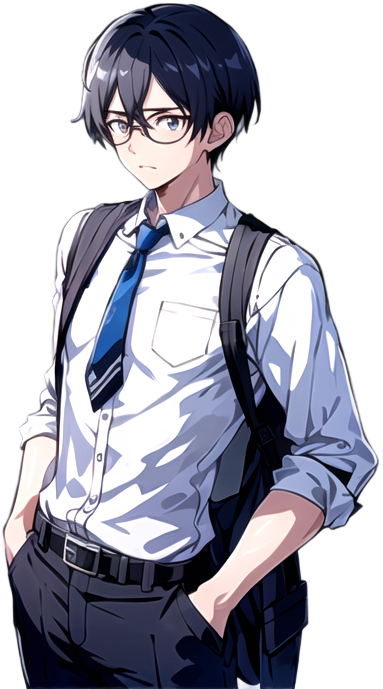
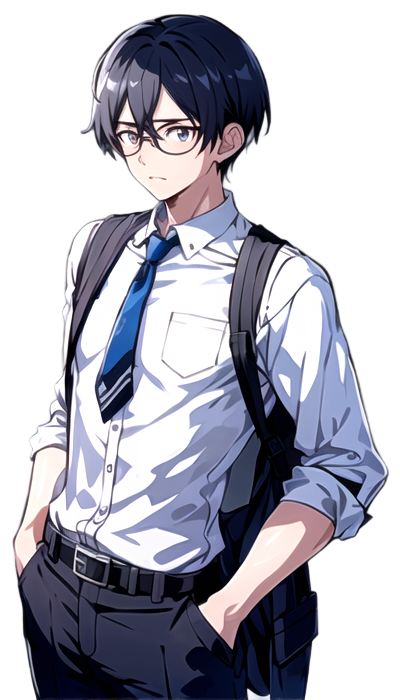
By SushiCodelnw

diff --git a/script.js b/script.js
@@ -4,17 +4,15 @@ const choose2 = document.getElementById("choose2");
 const choose3 = document.getElementById("choose3");
 
 const backgroundImg = document.getElementById("background-container");
-const shinImg = document.getElementById("shin");
-const sushiImg = document.getElementById("sushi");
+const characterImg = document.getElementById("character-container");
 
 const backgrounds = {
   bedroom: 'url("image/Background/Bedroom.png")',
 };
 
 const characters = {
-  shin: shinImg,
-  sushi: sushiImg,
-  none: null,
+  shin: 'url("image/Character/shin.png")',
+  sushi: 'url("image/Character/sushi.png")',
 };
 
 let time = 0;
@@ -23,62 +21,211 @@ let in_line = true;
 
 const word_list = [
   {
-    character: ["shin", "sushi"],
+    character: "shin",
     background: "bedroom",
     speaker: "ชิน",
-    word: "โอ้ยยยย ข้อสอบวันนี้นี่มันยากจริงๆเลย",
-    action: {
-      shin: [
-        { type: "moveX", value: 5, repeat: 10, delay: 100 },
-        { type: "scaleX", value: -1, repeat: 1, delay: 0 },
-      ],
-      sushi: [{ type: "moveY", value: 10, repeat: 5, delay: 200 }],
-    },
+    word: "โอ้ยยยย ข้อสอบวันนี้นี่มันยากจริงๆเลย... รีบกลับบ้านดีกว่า",
   },
   {
-    character: ["shin"],
+    character: "shin",
     background: "bedroom",
     speaker: "ชิน",
-    word: "เหนื่อยว่ะ รีบกลับหอดีกว่า",
-    action: { shin: [{ type: "moveY", value: 10, repeat: 1, delay: 0 }] },
+    word: "โว๊ะ นั่นอะไรน่ะ? กล่องกระดาษเหรอ? สงสัยจังว่าอะไรอยู่ข้างใน...",
   },
   {
-    character: ["sushi"],
+    character: "shin",
     background: "bedroom",
     speaker: "ชิน",
-    word: "โว๊ะ นั่นอะไรน่ะ กล่องกระดาษหรอ มันไมพอร์ตคุ้นๆวะ",
-    action: {},
+    word: "เชี่ย! มีลูกหมาอยู่ข้างในด้วย!",
+  },
+  {
+    character: "shin",
+    background: "bedroom",
+    speaker: "ชิน",
+    word: "ฉันยิ่งชอบหมาอยู่ด้วยสิ... เอาไงกับมันดีนะ?",
+  },
+  {
+    character: "shin",
+    background: "bedroom",
+    speaker: "ชิน",
+    word: "โอเคๆ ฉันจะไม่ปล่อยให้นายอยู่ตรงนี้หรอก...",
+  },
+  {
+    character: "shin",
+    background: "bedroom",
+    speaker: "ชิน",
+    word: "เห.. มีใบกระดาษอยู่ในกล่องด้วย.. เขียนว่า ซูชิ",
+  },
+  {
+    character: "shin",
+    background: "bedroom",
+    speaker: "ชิน",
+    word: "งั้นหรอ นายชื่อซูชิสินะ ไปกันเถอะ ซูชิ!!",
+  },
+  {
+    character: "shin",
+    background: "bedroom",
+    speaker: "ชิน",
+    word: "ก่อนอื่น... คงต้องหาข้าวให้มันกินก่อน",
+  },
+  {
+    character: "shin",
+    background: "bedroom",
+    speaker: "ชิน",
+    word: "ไปซื้ออาหารหมาดีกว่า",
+  },
+  {
+    character: "shin",
+    background: "store",
+    speaker: "ชิน",
+    word: "สวัสดีคร้าบบบบบบ ลุง",
+  },
+  {
+    character: "storekeeper",
+    background: "store",
+    speaker: "ลุง",
+    word: "หวัสดีจ่ะหลาน! เอาอะไรดีล่ะ?",
+  },
+  {
+    character: "shin",
+    background: "store",
+    speaker: "ชิน",
+    word: "เอาเป็น... อาหารหมา... ลุงแนะนำได้ไหมครับว่าเอาแบบไหนดี",
+  },
+  {
+    character: "storekeeper",
+    background: "store",
+    speaker: "ลุง",
+    word: "ลุงมีนี่แนะนำ อาหารหมาจากญี่ปุ่น ปกติเหมือนจะขายกันหลายร้อยเลยนะ แต่ลุงได้มาฟรีน่ะ เมื่อวานเพื่อนลุงซื้อมาฝาก งั้นลุงขายแค่ 100 เดียวจ่ะ",
+  },
+  {
+    character: "shin",
+    background: "store",
+    speaker: "ชิน",
+    word: "โอ้ววว ลุงใจดีจัง ขอบคุณมากนะครับลุง",
+  },
+  {
+    character: "storekeeper",
+    background: "store",
+    speaker: "ลุง",
+    word: "ไม่เป็นไรจ่ะ โชคดีนะ เลี้ยงมันดีๆล่ะ",
+  },
+  {
+    character: "shin",
+    background: "store",
+    speaker: "ชิน",
+    word: "ครับ ขอบคุณมากเลยครับลุง",
+  },
+  {
+    character: "shin",
+    background: "home",
+    speaker: "ชิน",
+    word: "เฮ้อ... ถึงบ้านสักที รอแป๊บนะ เดี๋ยวเอาอาหารให้กิน",
+  },
+  {
+    character: "shin",
+    background: "home",
+    speaker: "ชิน",
+    word: "เห้ย! เกิดอะไรขึ้นเนี่ย? อ้าาาาาา!!!",
+  },
+  {
+    character: "shin",
+    background: "home",
+    speaker: "ชิน",
+    word: "ว๊าา! อะไรเนี่ย!!",
+  },
+  {
+    character: "sushi",
+    background: "home",
+    speaker: "ซูชิ",
+    word: "เกิดอะไรขึ้นกันล่ะเนี่ย",
+  },
+  {
+    character: "shin",
+    background: "home",
+    speaker: "ชิน",
+    word: ".",
+  },
+  {
+    character: "sushi",
+    background: "home",
+    speaker: "ซูชิ",
+    word: "..",
+  },
+  {
+    character: "shin",
+    background: "home",
+    speaker: "ชิน",
+    word: "...",
+  },
+  {
+    character: "sushi",
+    background: "home",
+    speaker: "ซูชิ",
+    word: "....",
+  },
+  {
+    character: "shin",
+    background: "home",
+    speaker: "ชิน",
+    word: "นี่มัน... อะไรกันล่ะเนี่ย? น่ะ...นาย.. เป็นคน? งั้นหรอ?",
+  },
+  {
+    character: "sushi",
+    background: "home",
+    speaker: "ซูชิ",
+    word: "ฉันก็ไม่รู้วววววว ทำไมอยู่ดีๆฉันกลายเป็นเหมือนนายล่ะเนี่ย",
+  },
+  {
+    character: "shin",
+    background: "home",
+    speaker: "ชิน",
+    word: "อะไรกันล่ะเนี่ย (แต่... ตอนเป็นหมาก็น่ารักอยู่แล้วนะ ทะ..ทำไมตอนนายกลายเป็นคนมันก็....)",
+  },
+  {
+    character: "shin",
+    background: "home",
+    speaker: "ชิน",
+    word: "หรือว่าจะเป็นเพราะอาหารหมาที่ลุงให้มากันนะ เพราะหลังจากที่นายกิน นายก็กลายเป็นคนเลยในอีกไม่กี่วินาทีตอนมา",
+  },
+  {
+    character: "shin",
+    background: "home",
+    speaker: "ชิน",
+    word: "ถึงจะยังไม่เข้าใจก็เหอะ แต่นายต้องอยู่กับฉันไปก่อนล่ะนะ",
   },
 ];
 
-textBox.addEventListener("click", BoxClick);
-
 function BoxClick() {
   if (in_line && time < word_list.length) {
-    const { character, background, speaker, word, action } = word_list[time];
-    updateCharacter(character, action);
+    const { character, background, speaker, word } = word_list[time];
+    updateCharacter(character);
     updateBackground(background);
     updateText(speaker, word);
     time++;
 
-    if (time === 5) {
+    if (time === 3) {
+      hideTextBox();
+    }
+
+    if (time === 4) {
       in_line = false;
       if (stage === 0) {
         openChoices(
           {
             speaker: "ชิน",
             text: "เก็บมันมาเลี้ยง",
-            outline: "มานี้มะ ไอหน้าหมา",
+            outline: "คงมีแค่วิธีนี้แหละ!",
           },
           {
-            speaker: "มิ้น",
+            speaker: "ชิน",
             text: "ปล่อยมันไว้อย่างงั้นแหละ",
-            outline: "มึงจะบ้าหรอ มันน่าสงสารจะตาย",
+            outline: "ไม่เอาๆๆๆๆๆ มันน่าสงสารจะตาย",
           },
           {
-            speaker: "มิ้น",
+            speaker: "ชิน",
             text: "โทรหาศูนย์ช่วยเหลือสัตว์",
-            outline: "แต่กูไม่รู้เบอร์ว่ะ",
+            outline: "แต่ฉันไม่รู้เบอร์แฮะ คงต้องเลือกวิธีอื่น",
           }
         );
       }
@@ -90,57 +237,24 @@ function updateBackground(background) {
   backgroundImg.style.backgroundImage = backgrounds[background];
 }
 
-function updateCharacter(charactersArray, actions = {}) {
-  shinImg.style.backgroundImage = "";
-  sushiImg.style.backgroundImage = "";
-
-  charactersArray.forEach((character) => {
-    if (characters[character]) {
-      characters[
-        character
-      ].style.backgroundImage = `url("image/Character/${character}.png")`;
-
-      if (actions[character]) {
-        applyActions(characters[character], actions[character]);
-      }
-    }
-  });
-}
-
-function applyActions(characterImg, actions) {
-  actions.forEach(({ type, value, repeat, delay }) => {
-    let count = 0;
-    const interval = setInterval(() => {
-      if (count >= repeat) {
-        clearInterval(interval);
-        return;
-      }
-
-      if (type === "moveX") {
-        characterImg.style.transition = `transform ${
-          delay / 1000
-        }s ease-in-out`;
-        characterImg.style.transform += ` translateX(${value}px)`;
-      } else if (type === "moveY") {
-        characterImg.style.transition = `transform ${
-          delay / 1000
-        }s ease-in-out`;
-        characterImg.style.transform += ` translateY(${value}px)`;
-      } else if (type === "scaleX") {
-        characterImg.style.transition = `transform ${
-          delay / 1000
-        }s ease-in-out`;
-        characterImg.style.transform += ` scaleX(${value})`;
-      }
-
-      count++;
-    }, delay);
-  });
+function updateCharacter(character = {}) {
+  characterImg.style.backgroundImage = characters[character];
 }
 
 function updateText(speaker, word) {
   document.getElementById("speaker").innerText = speaker;
   document.getElementById("text").innerText = word;
+}
+
+function hideTextBox() {
+  textBox.style.transition = "opacity 0.1s";
+  textBox.style.opacity = "0";
+  textBox.onclick = null;
+
+  setTimeout(() => {
+    textBox.style.opacity = "1";
+    textBox.onclick = BoxClick;
+  }, 2000);
 }
 
 function closeChoices() {

diff --git a/style.css b/style.css
@@ -61,12 +61,13 @@ body {
   top: 60%;
   width: 70%;
   background-color: rgba(0, 0, 0, 0.8);
-  padding: 10px 20px; /* Adjust padding here */
+  padding: 10px 20px;
   border-radius: 10px;
   cursor: pointer;
   margin: 20px;
 }
 #speaker {
+  text-align: center;
   font-size: 5vh;
   color: #fff;
   text-shadow: 2px 4px 6px black;
@@ -86,21 +87,13 @@ body {
   z-index: -1;
 }
 
-.character-container {
+#character-container {
   position: absolute;
   bottom: 0%;
-  transform: translateX(-50%);
-  width: 30%;
-  height: 70%;
-  background-size: contain;
+  left: 50%;
+  transform: translateX(-35%);
+  padding: 20% 12%;
+  background-size: 100% 100%;
   background-repeat: no-repeat;
   z-index: 0;
-}
-
-#shin{
-  left: 70%;
-}
-
-#sushi{
-  left: 30%;
 }

diff --git a/index.html b/index.html
@@ -8,9 +8,8 @@
   </head>
   <body>
     <div id="background-container"></div>
-    <div id="shin" class="character-container"></div>
-    <div id="sushi" class="character-container"></div>
-    <div id="text-box" class="box">
+    <div id="character-container"></div>
+    <div id="text-box" class="box" onclick="BoxClick()">
       <h1 id="speaker"></h1>
       <h1 id="text"></h1>
     </div>
